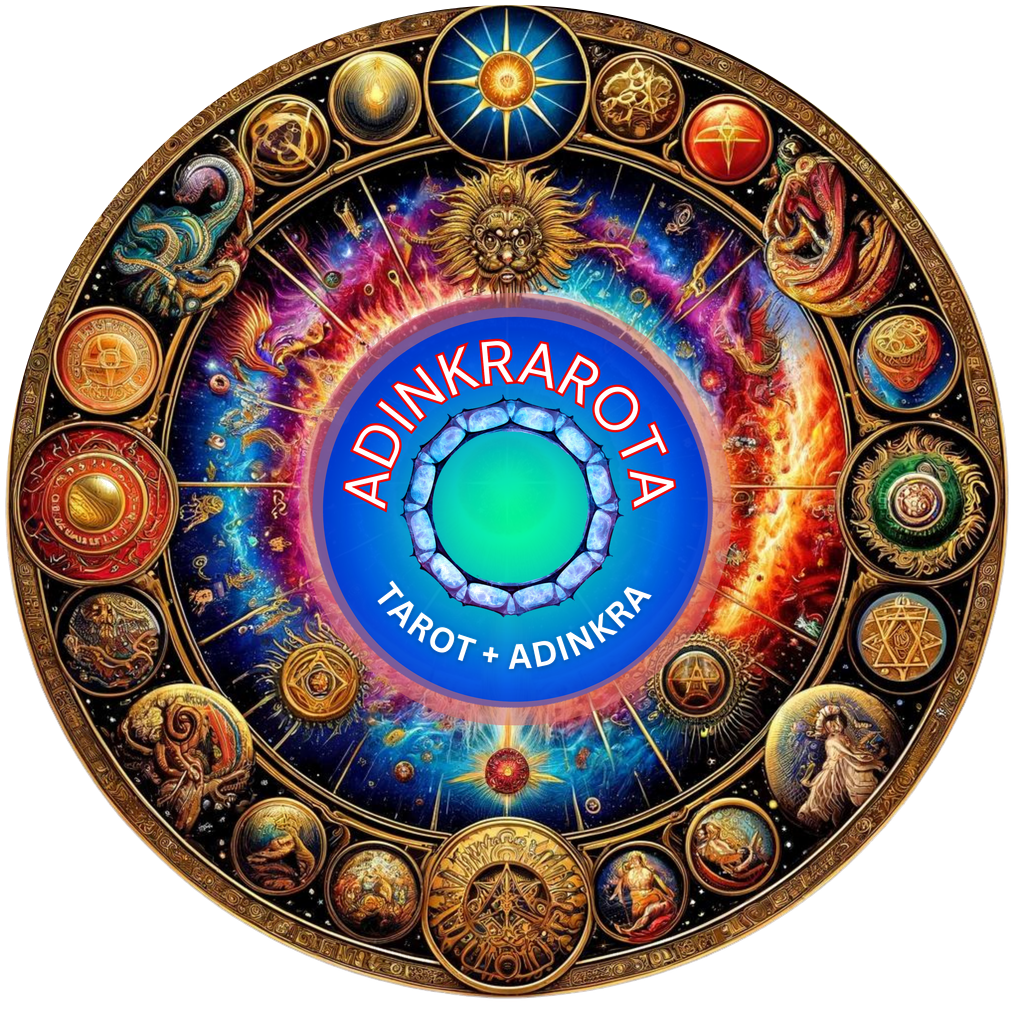
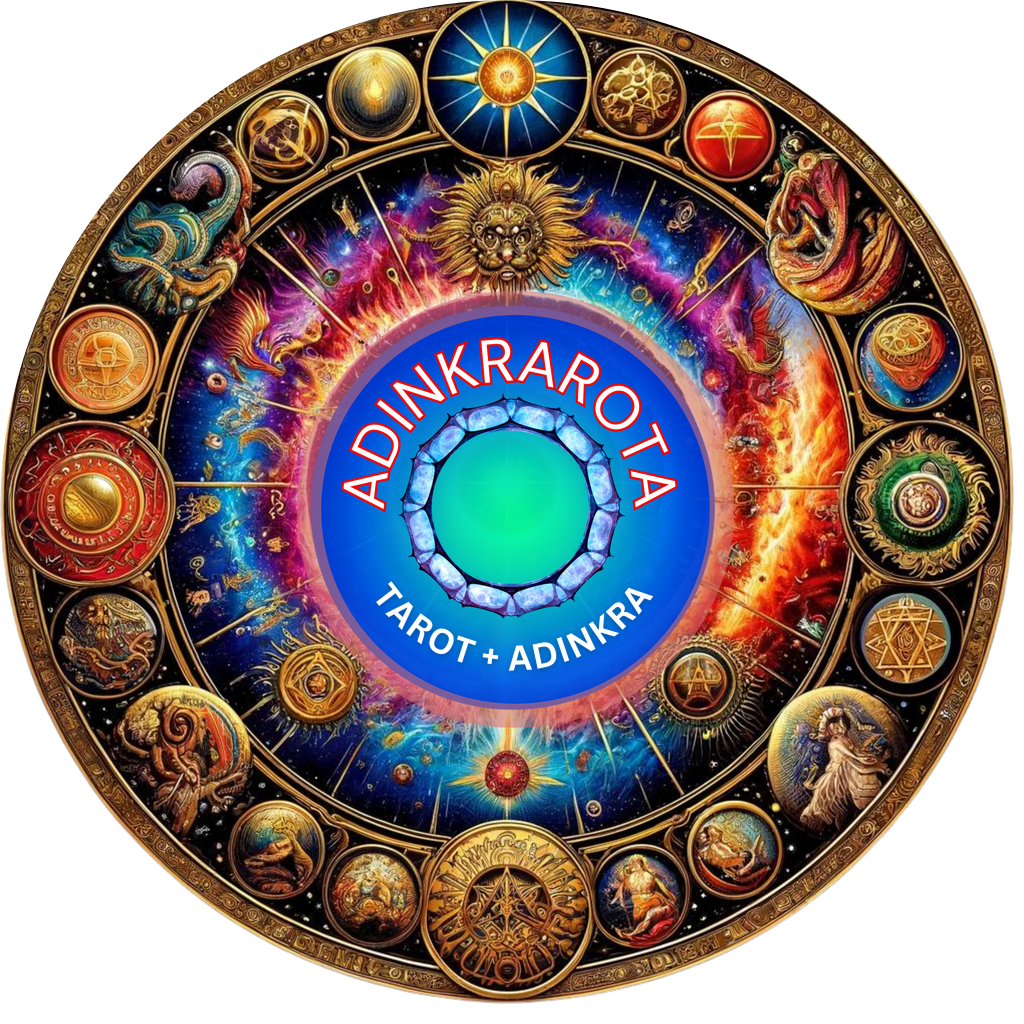
Scale hero wheels to match circular white perimeter exactly

diff --git a/components/hero-section.tsx b/components/hero-section.tsx
@@ -189,7 +189,7 @@ export function HeroSection({ onExplore, onReading, onSpinCycle }: HeroSectionPr
                   src="/images/portal-wheel-circle.png"
                   alt=""
                   aria-hidden
-                  className="absolute top-1/2 left-1/2 h-full w-auto max-w-none -translate-x-1/2 -translate-y-1/2"
+                  className="absolute inset-0 h-full w-full object-contain object-center"
                 />
               </motion.div>
 
@@ -206,7 +206,7 @@ export function HeroSection({ onExplore, onReading, onSpinCycle }: HeroSectionPr
                 <img
                   src="/images/portal-wheel-circle.png"
                   alt="ADINKRAROTA - Tarot + Adinkra Portal"
-                  className="absolute top-1/2 left-1/2 h-full w-auto max-w-none -translate-x-1/2 -translate-y-1/2"
+                  className="absolute inset-0 h-full w-full object-contain object-center"
                 />
               </motion.div>
             </motion.div>
